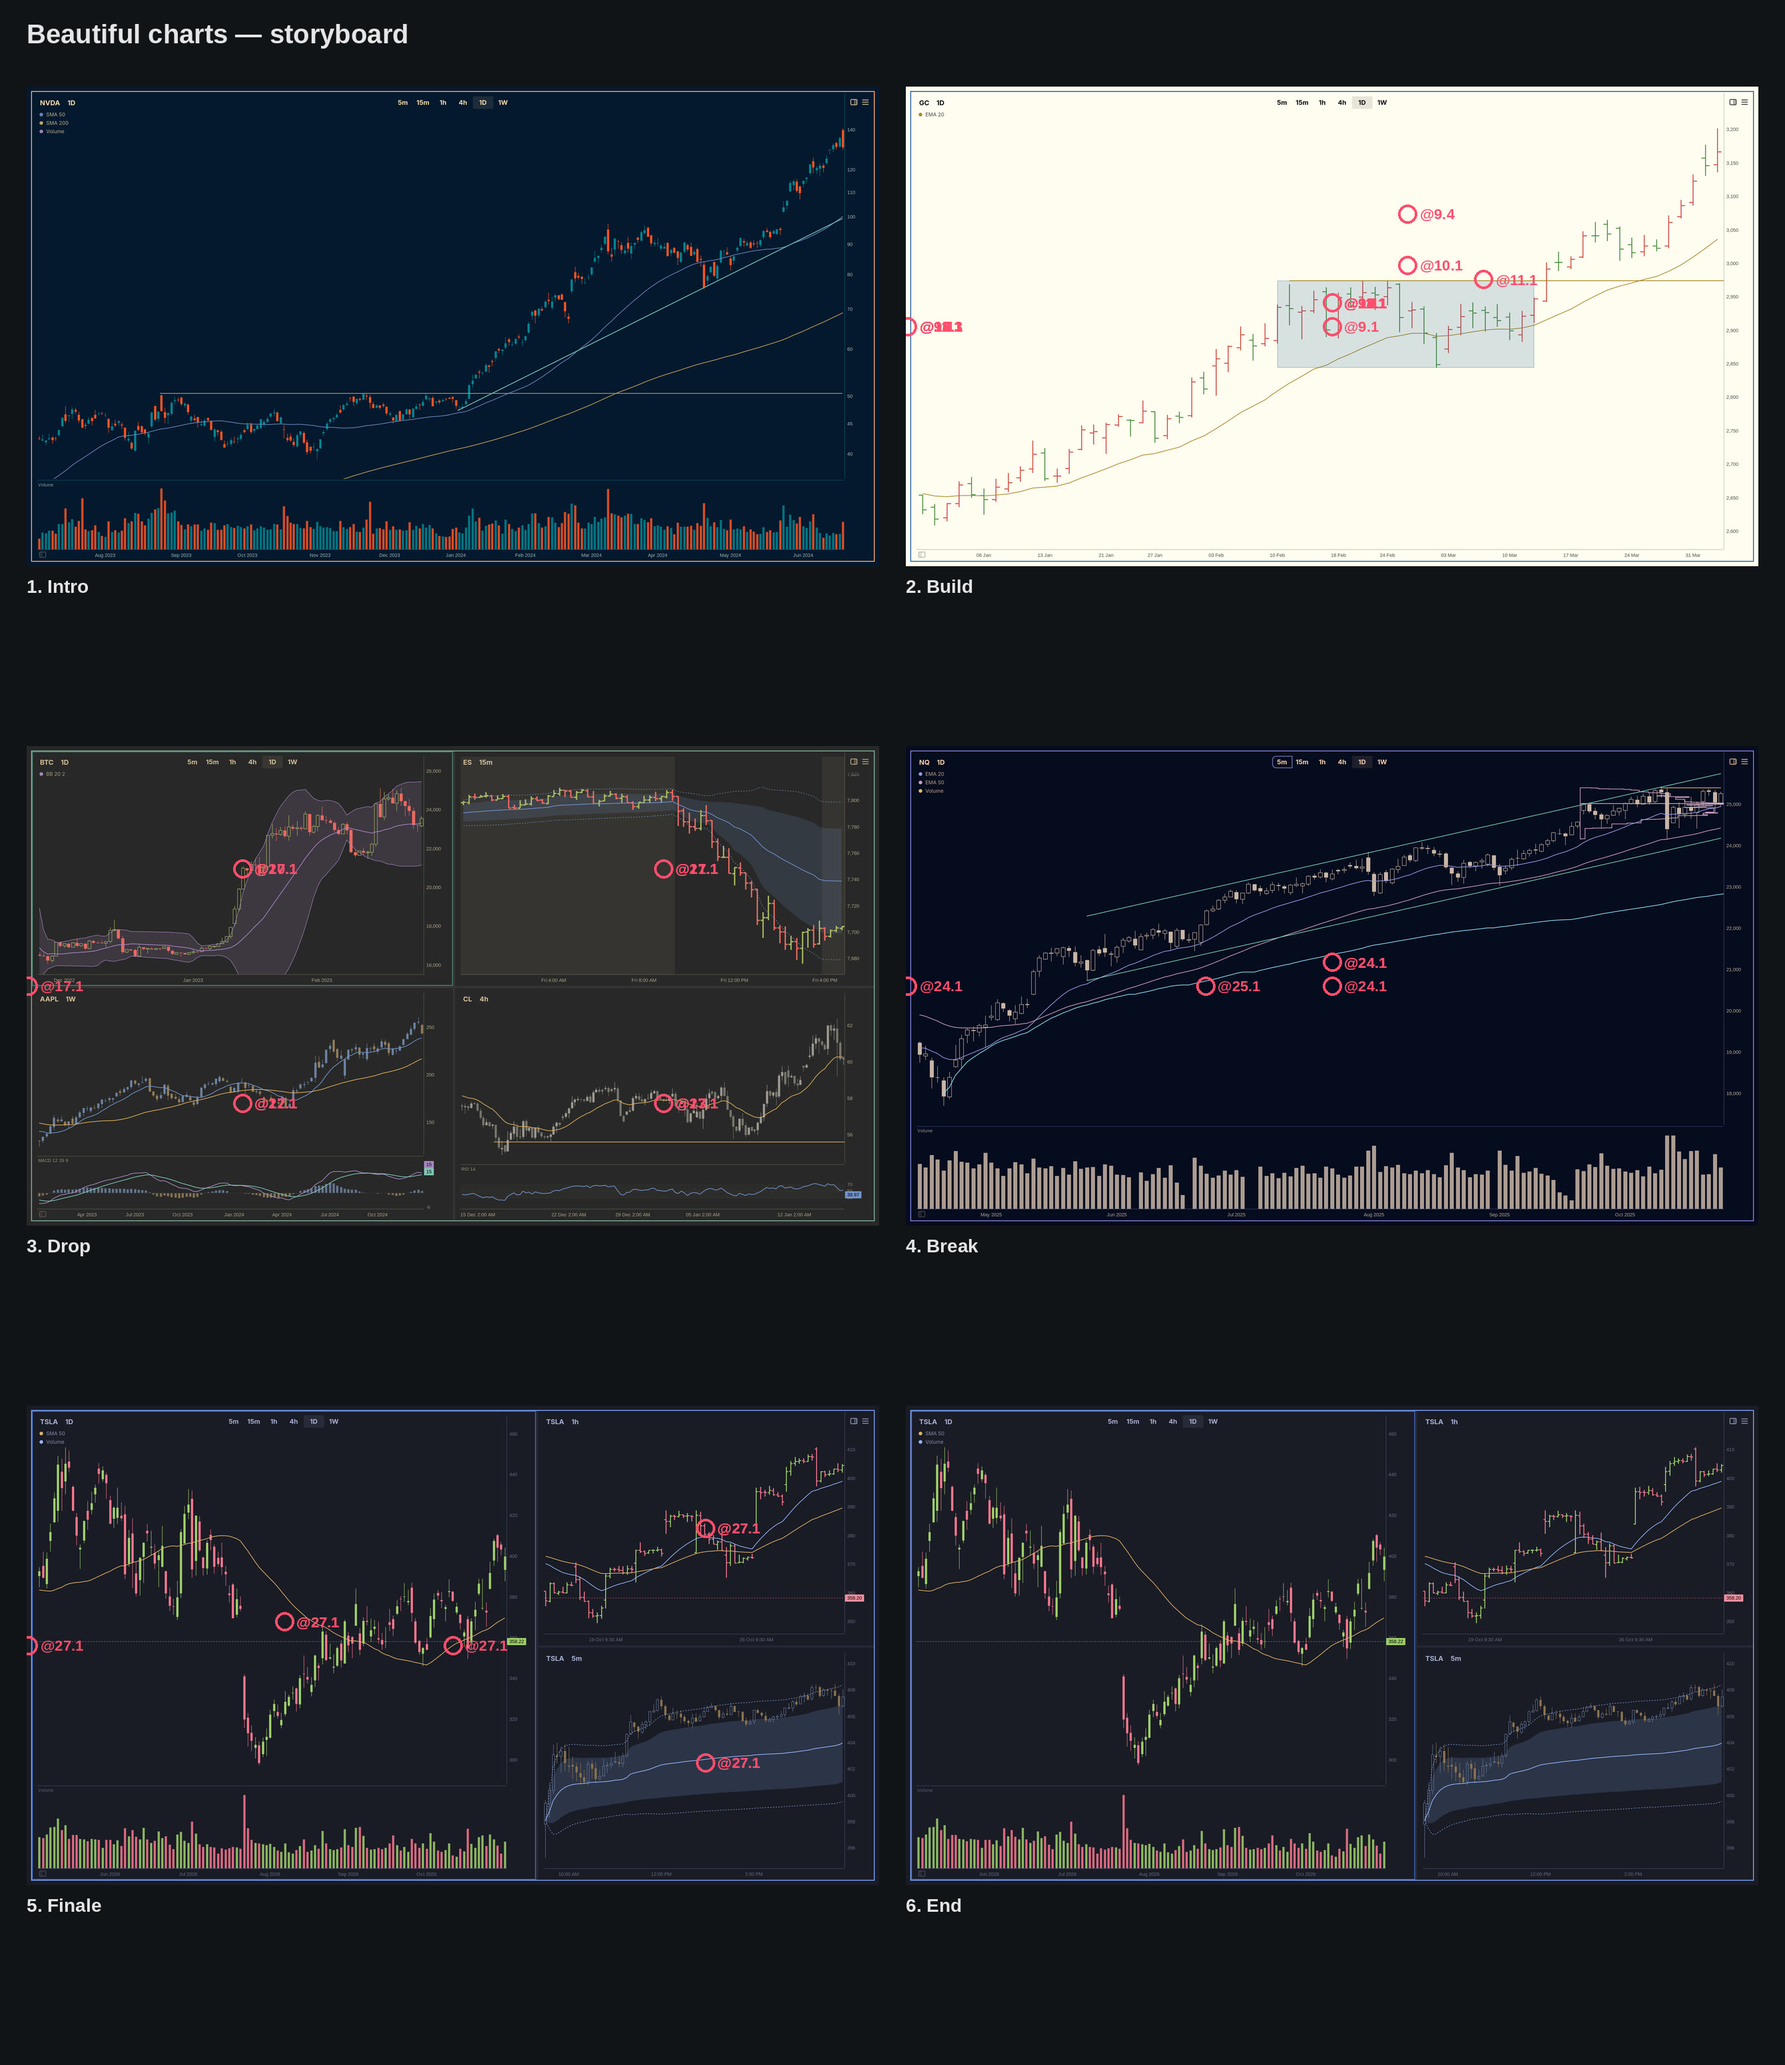
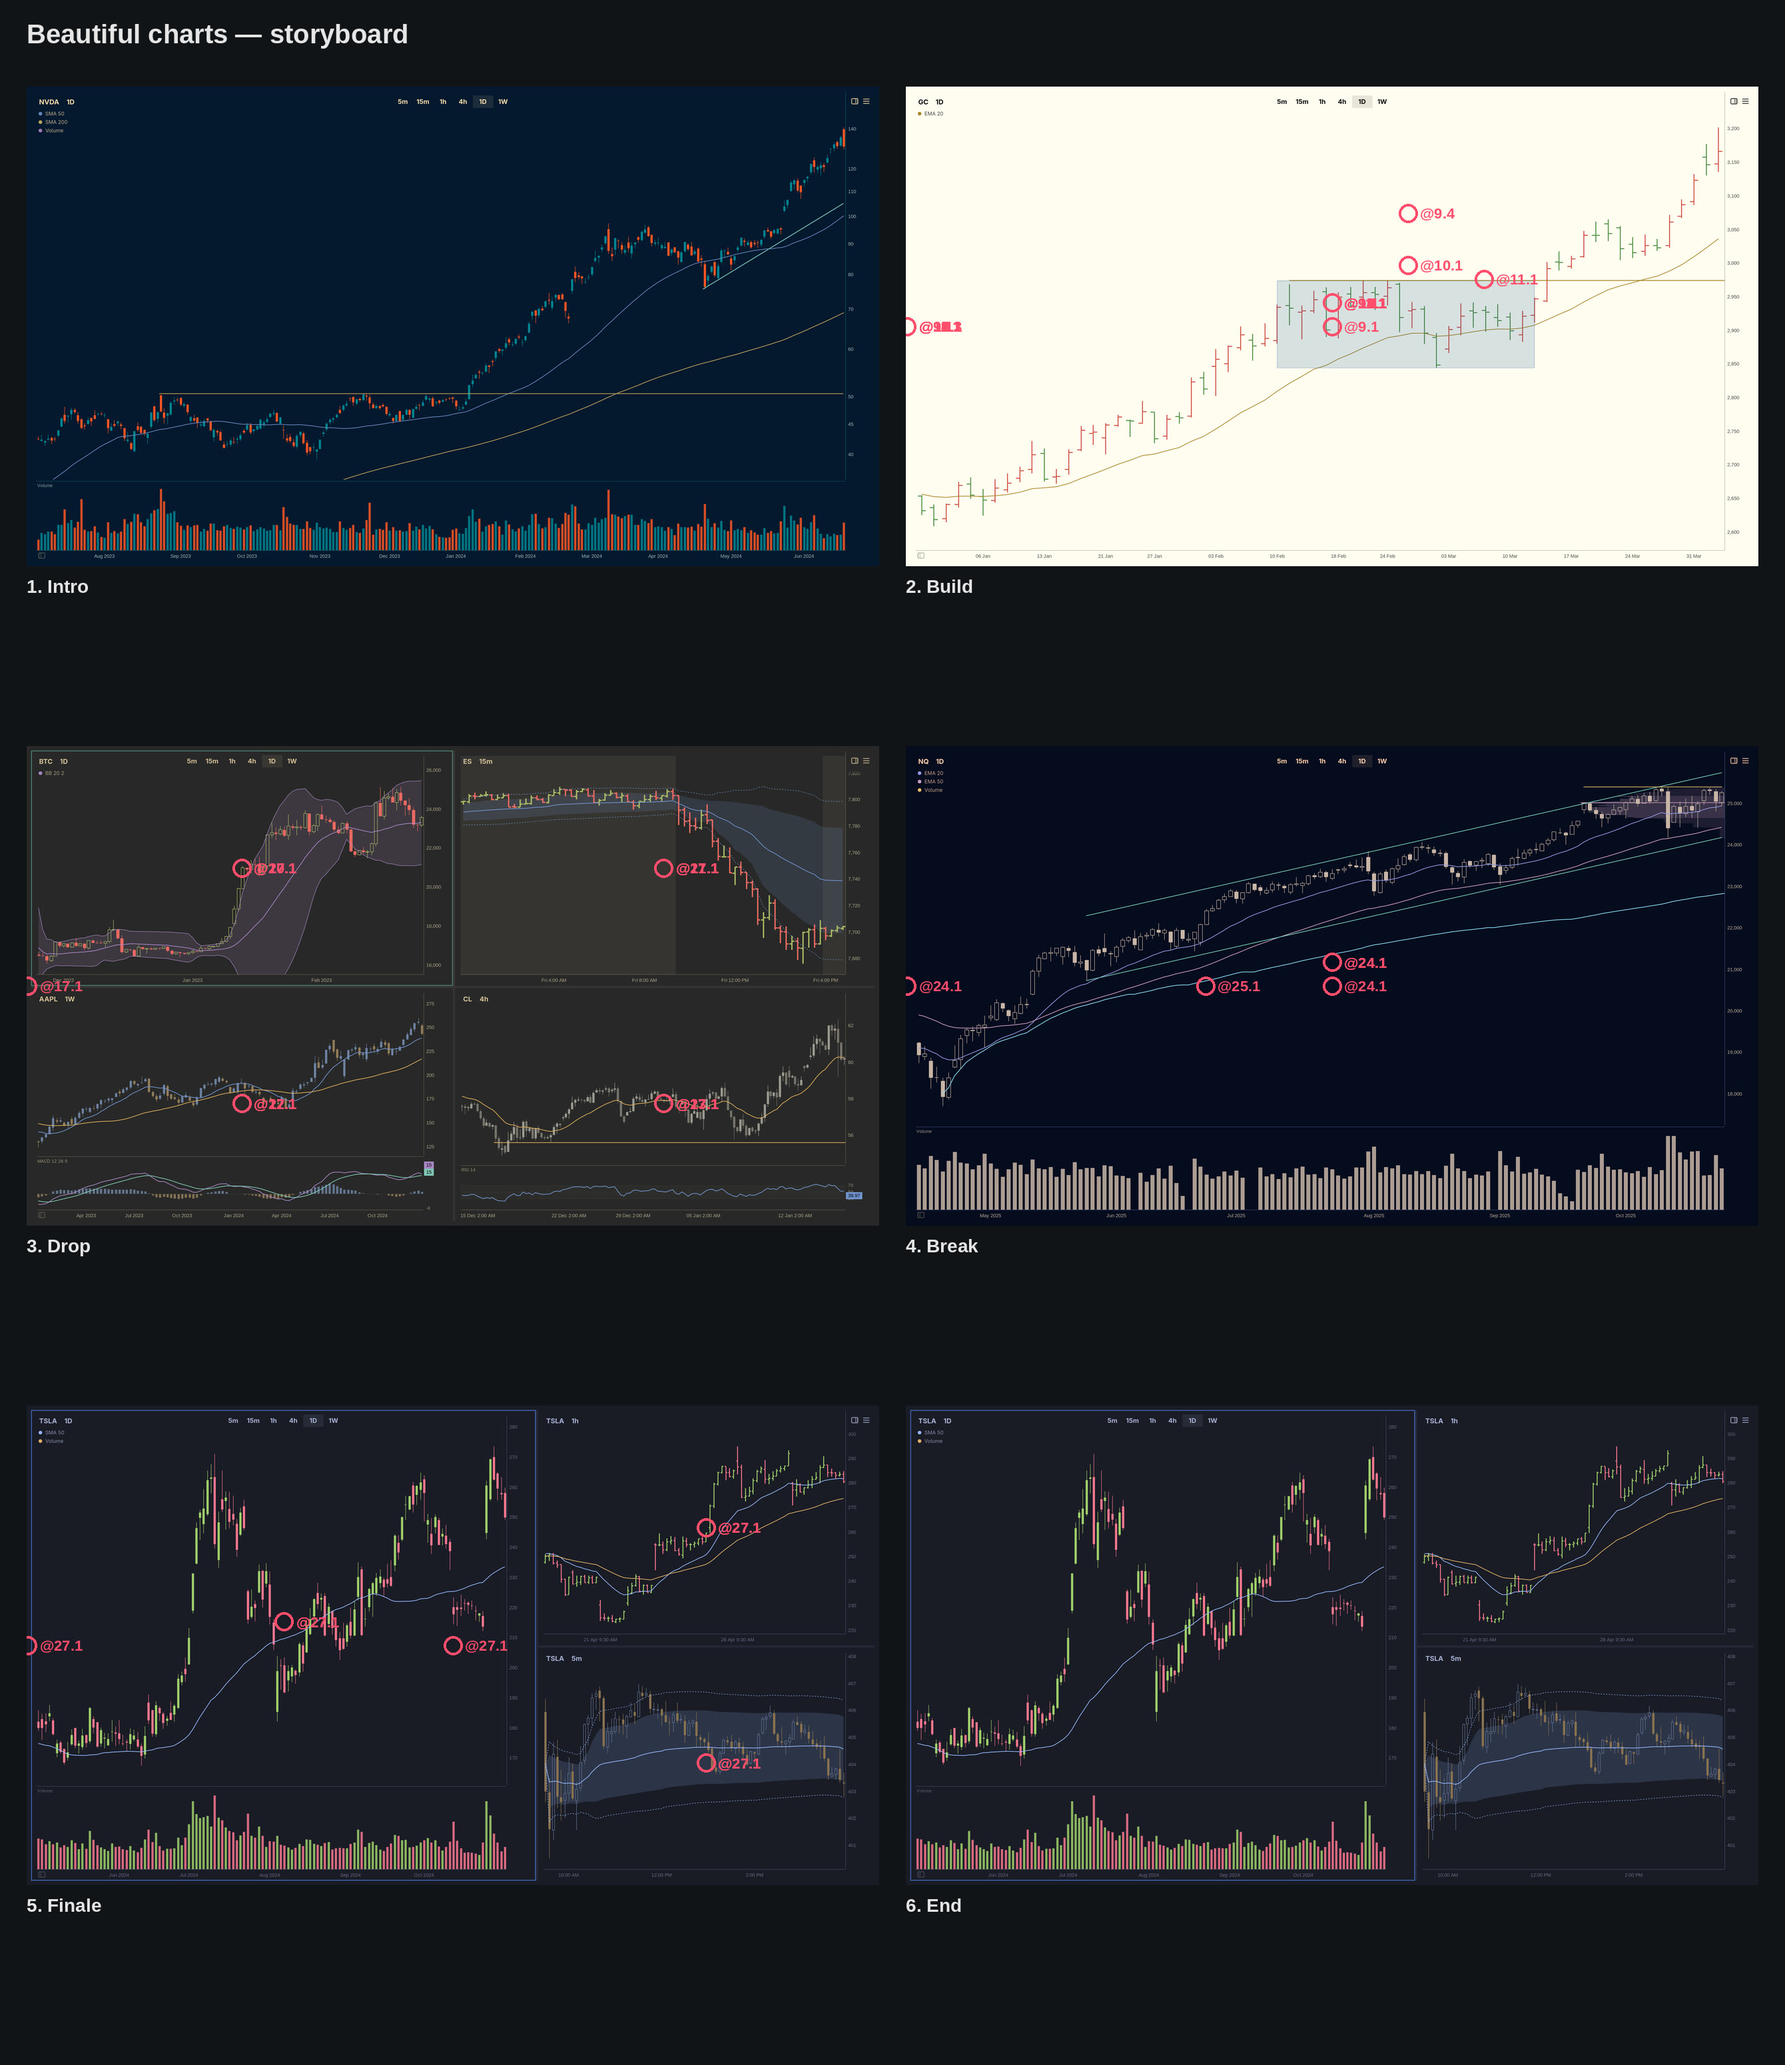
Keep today's price off every chart, calm the break's profile, and show the pointer only for the dialog

diff --git a/video/scripts/beautiful-charts.md b/video/scripts/beautiful-charts.md
@@ -82,8 +82,9 @@ and 25.1. There are two flashes in all, at 17.1 and 30.1.
    - a volume profile over the last range;
    - an anchored VWAP line from the April low.
 5. **Finale** (bars 27–29). TSLA on three charts. The daily, May to
-   October 2026, takes the left sixty percent with a fifty-day average
-   and volume. The hourly sits top right in OHLC bars with twenty and
+   October 2024, takes the left sixty percent with a fifty-day average
+   and volume. The hourly, a fortnight
+   of April 2025, sits top right in OHLC bars with twenty and
    fifty EMAs. The five-minute sits bottom right, Soft and hollow, with
    VWAP and bands. Starship at 27, Catppuccin Latte at 28, and Tokyo Night
    at 29, which holds. Latte is the bookend: the first switch was Tokyo
@@ -171,7 +172,7 @@ hidden from the start, and nothing here shows them.
     cli chart set --template none --symbol TSLA --resolution 1D --style candles --colouring theme --hollow-up off --indicators on --drawings on --grid off
     cli chart split horizontal
     cli chart split vertical --chart pos:1
-    cli chart indicator add sma --chart pos:0 --period 50 --color Amber
+    cli chart indicator add sma --chart pos:0 --period 50 --color Blue
     cli chart indicator add volume --chart pos:0
     cli chart set --chart pos:1 --resolution 1h --style ohlc --colouring theme --session regular --grid off
     cli chart indicator add ema --chart pos:1 --period 20 --color Blue
@@ -180,7 +181,7 @@ hidden from the start, and nothing here shows them.
     cli chart indicator add vwap --chart pos:2 --bands 1,2 --color Blue
     cli chartbook template save Finale
     cli chart set --chart pos:0 --symbol NVDA --grid off
-    cli chart drawing add line --from 2024-01-03,47.32 --to 2024-06-20,99.3 --color teal --width 2 --chart pos:0
+    cli chart drawing add line --from 2024-04-19,75.61 --to 2024-06-20,105 --color teal --width 2 --chart pos:0
     cli chart drawing add hline --from 2023-08-24,50.55 --to 2024-06-20,50.55 --color amber --chart pos:0
     cli chart set --chart pos:0 --symbol GC --grid off
     cli chart drawing add rect --from 2025-02-10,2974 --to 2025-03-12,2844.1 --config 3 --chart pos:0
@@ -190,8 +191,8 @@ hidden from the start, and nothing here shows them.
     cli chart set --chart pos:0 --symbol NQ --grid off
     cli chart drawing add line --from 2025-05-23,20727 --to 2025-10-23,24174 --color teal --width 1.5 --chart pos:0
     cli chart drawing add line --from 2025-05-23,22290 --to 2025-10-23,25737 --color teal --width 1.5 --chart pos:0
-    cli chart drawing add hline --from 2025-10-09,25394 --to 2025-10-23,25394 --color amber --chart pos:0
-    cli chart drawing add profile --from 2025-09-22,24000 --to 2025-10-23,25400 --config 5 --chart pos:0
+    cli chart drawing add hline --from 2025-09-22,25394 --to 2025-10-23,25394 --color amber --chart pos:0
+    cli chart drawing add profile --from 2025-09-22,24000 --to 2025-10-23,25400 --config 1 --profile-style filled --align right --transparency 0.55 --poc-color violet --chart pos:0
     cli chart drawing add avwap --from 2025-04-21,17700 --color cyan --bands none --chart pos:0
     cli chart set --chart pos:0 --symbol TSLA --grid off
     key ctrl+shift+b
@@ -212,7 +213,7 @@ hidden from the start, and nothing here shows them.
 **Picture.** The cover's fade ends on 3.1 to show NVDA daily from July
 2023 to June 2024 in Tokyo Night. The candles are vivid on a log scale,
 with the blue fifty-day and amber two-hundred-day averages and a volume
-strip. A teal trendline rides the lows from January into June, and an
+strip. A teal trendline rides the lows from the April dip into June, and an
 amber level marks the August 2023 high that the January breakout cleared.
 At once the camera starts a slow push toward the breakout. On 4.1 the
 whole window turns light: Catppuccin Latte, the same chart and lines.
@@ -244,10 +245,10 @@ closes the dialog and the pointer slips back to the edge and hides.
   before the drop.
 
     @9.1: early 3; theme everforest; zoom 50% 50% 1; cli chartbook template apply Build; cli chart set --symbol GC --style candles --colouring theme-mono --hollow-up on --swap-colours off --log-scale off --indicators on --drawings on --grid off; cli chart range "2024/12/30..2025/04/02"; scroll 50% 45% -1; scroll 50% 45% 1; move -0.4% 50%
-    @9.2: key ctrl+shift+s
+    @9.2: key ctrl+shift+s; cursor show
     @9.4: click 59% 26%
     @10.1: click 59% 37%
-    @10.3: key Escape; move -0.4% 50%
+    @10.3: key Escape; move -0.4% 50%; cursor hide
     @11.1: early 1.5; zoom 68% 40% 1.5; cli chart set --colouring theme-soft; cli chart range "2024/12/30..2025/04/02"; scroll 50% 45% -1; scroll 50% 45% 1; move -0.4% 50%
     @12.1: early 1.5; cli chart set --colouring theme; cli chart range "2024/12/30..2025/04/02"; scroll 50% 45% -1; scroll 50% 45% 1; move -0.4% 50%
     @13.1: theme flexoki-light
@@ -311,15 +312,17 @@ starts to drift right. On 26.1 Ctrl and H brings in the drawings:
 Starship, and a barely perceptible push begins. On 28.1 the window turns
 to Catppuccin Latte. On 29.1 it lands back on Tokyo Night, where the
 video began, and holds as the push goes on. The three charts:
-- left, about sixty percent wide, the daily from May to October 2026 in
-  vivid candles. It has an amber fifty-day average and volume: a slide
-  into August, then a long climb back;
-- top right, the hourly over two weeks in OHLC bars, with blue twenty and
-  amber fifty EMAs;
+- left, about sixty percent wide, the daily from May to October 2024 in
+  vivid candles. It has a blue fifty-day average and volume: a flat
+  base, a July surge, a dip into August, then a climb into the October
+  gap;
+- top right, the hourly over two weeks of April 2025 in OHLC bars, with
+  blue twenty and amber fifty EMAs: a slide to the April low and the
+  rebound;
 - bottom right, the five-minute over one session in Soft hollow candles,
   with VWAP and its bands.
 
-    @27.1: early 1.5; theme starship; zoom 50% 50% 1; drift 50% 50% 1.1 12; pulse 0.025; cli chartbook template apply Finale; cli chart set --chart pos:0 --symbol TSLA --style candles --colouring theme --hollow-up off --swap-colours off --log-scale off --indicators on --drawings on --grid off; cli chart set --chart pos:1 --symbol TSLA --style ohlc --colouring theme --swap-colours off --session regular --log-scale off --indicators on --drawings on --grid off; cli chart set --chart pos:2 --symbol TSLA --style candles --colouring theme-soft --hollow-up on --swap-colours off --session regular --log-scale off --indicators on --drawings on --grid off; cli chart focus pos:1; cli chart range "2026/10/15..2026/10/28"; cli chart focus pos:2; cli chart range "2026/10/27..2026/10/27"; cli chart focus pos:0; cli chart range "2026/05/01..2026/10/30"; scroll 30% 45% -1; scroll 30% 45% 1; scroll 80% 25% -1; scroll 80% 25% 1; scroll 80% 75% -1; scroll 80% 75% 1; move -0.4% 50%
+    @27.1: early 1.5; theme starship; zoom 50% 50% 1; drift 50% 50% 1.1 12; pulse 0.025; cli chartbook template apply Finale; cli chart set --chart pos:0 --symbol TSLA --style candles --colouring theme --hollow-up off --swap-colours off --log-scale off --indicators on --drawings on --grid off; cli chart set --chart pos:1 --symbol TSLA --style ohlc --colouring theme --swap-colours off --session regular --log-scale off --indicators on --drawings on --grid off; cli chart set --chart pos:2 --symbol TSLA --style candles --colouring theme-soft --hollow-up on --swap-colours off --session regular --log-scale off --indicators on --drawings on --grid off; cli chart focus pos:1; cli chart range "2025/04/16..2025/05/01"; cli chart focus pos:2; cli chart range "2026/10/29..2026/10/29"; cli chart focus pos:0; cli chart range "2024/05/01..2024/10/31"; scroll 30% 45% -1; scroll 30% 45% 1; scroll 80% 25% -1; scroll 80% 25% 1; scroll 80% 75% -1; scroll 80% 75% 1; move -0.4% 50%
     @28.1: theme catppuccin-latte; pulse 0.025
     @29.1: theme tokyo-night; pulse 0.025
 
